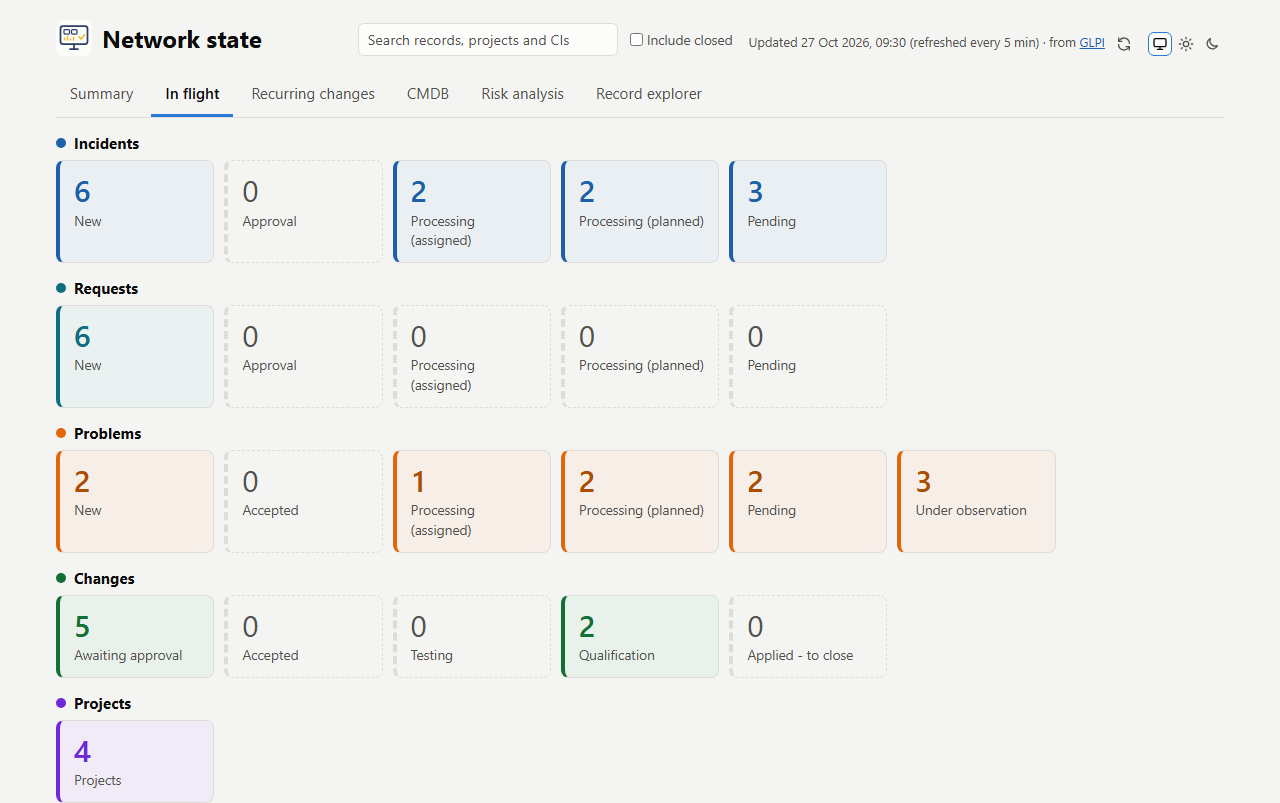
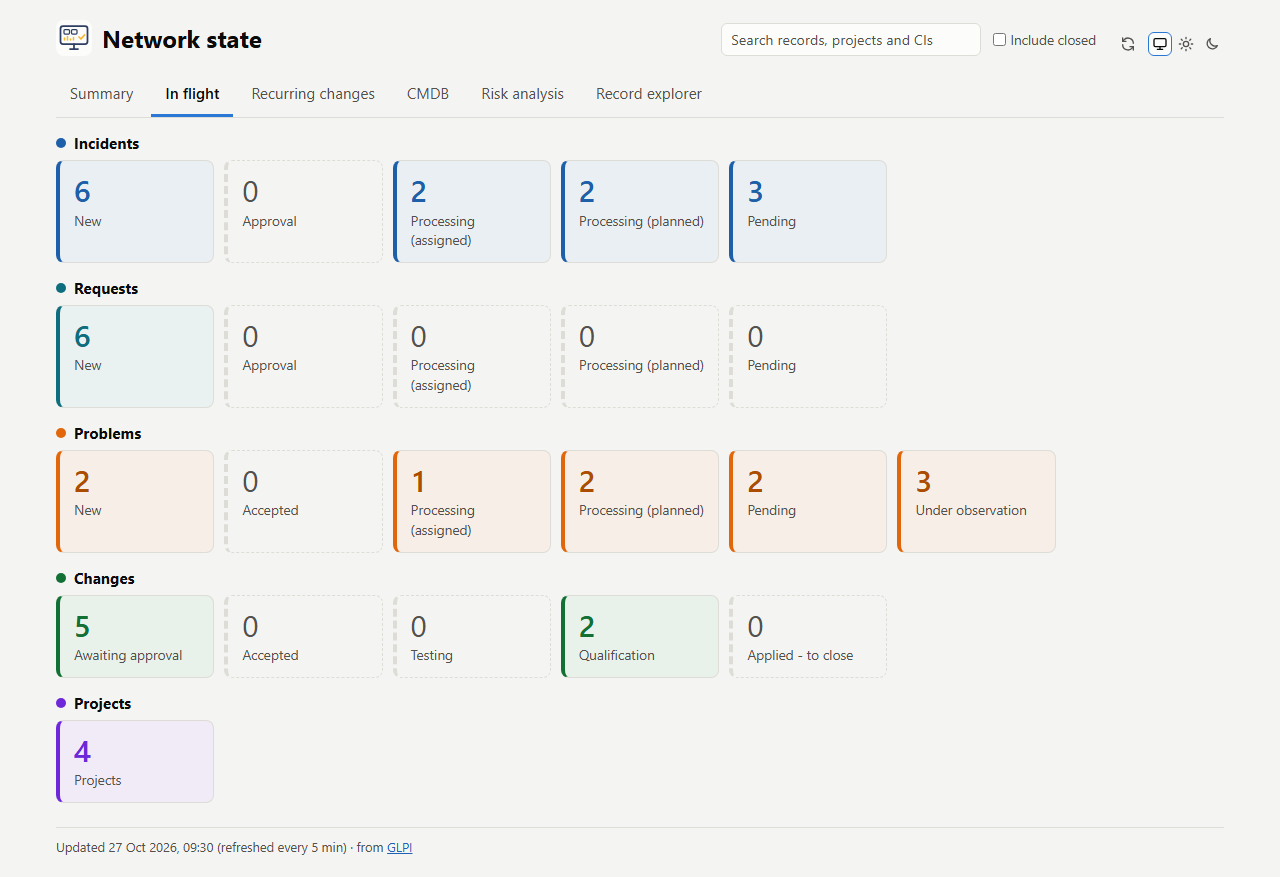
feat(ui): update time moves to a page footer (#29)
The header keeps the title, search, Refresh now and the theme toggle, on one
line from 768px up and in three tidy rows below, with no sideways scroll
down to 320px. "Updated ..., refreshed every N min - from GLPI" moves to a
footer below the page. Retakes the seven tab screenshots, whose header and
footer changed.

diff --git a/app/static/style.css b/app/static/style.css
@@ -127,14 +127,17 @@ a { color: var(--link); }
 a:focus-visible { outline: 2px solid var(--focus); outline-offset: 2px; }
 .visually-hidden { position: absolute; width: 1px; height: 1px; overflow: hidden; clip: rect(0 0 0 0); }
 
-.top, main { max-width: 1200px; margin: 0 auto; padding: 0 16px; }
-/* The title on the left; search, when it was updated and Refresh on the right, on the title's baseline. */
+.top, main, .foot { max-width: 1200px; margin: 0 auto; padding: 0 16px; }
+/* The title on the left; search, Refresh and the theme picker on the right, on the title's baseline. */
 .top { padding-top: 20px; display: flex; flex-wrap: wrap; align-items: flex-end; gap: 8px 16px; }
 /* Search takes the line's spare room, right-aligned, and gives it up before the update time wraps below the title:
    the box is laid out at 120px and grows to 260px, since an input's natural width would otherwise be its minimum. */
 .top .search { flex: 1 0 auto; justify-content: flex-end; flex-wrap: nowrap; }
 .top .search input[type="search"] { width: 120px; flex: 1 1 120px; max-width: 260px; }
-.top .meta { margin: 0; font-size: 0.8rem; }
+.top .actions { display: flex; align-items: center; }
+/* When it was updated, and from which GLPI, below everything else. */
+.foot { padding-top: 24px; padding-bottom: 20px; }
+.foot .meta { margin: 0; padding-top: 10px; border-top: 1px solid var(--border); font-size: 0.8rem; }
 h1 { font-size: 1.5rem; margin: 0; display: flex; align-items: center; gap: 10px; }
 .logo { width: 36px; height: 36px; padding: 2px; background: #fcfcfb; border-radius: 8px; }
 h2 { font-size: 1.15rem; margin: 28px 0 6px; }

diff --git a/app/static/index.html b/app/static/index.html
@@ -18,7 +18,7 @@
              autocomplete="off" spellcheck="false">
       <label class="check"><input id="search-closed" type="checkbox"> Include closed</label>
     </form>
-    <p class="meta"><span id="updated">Loading…</span> · from <a id="glpi-link" href="#" target="_blank" rel="noopener">GLPI</a>
+    <div class="actions">
       <button id="refresh" class="icon-btn refresh" type="button" aria-label="Refresh now" title="Refresh now">
         <svg class="refresh-icon" viewBox="0 0 24 24" aria-hidden="true" focusable="false">
           <path d="M20 11a8 8 0 0 0-14.3-4.9L4 8"/><path d="M4 3v5h5"/>
@@ -45,7 +45,8 @@
             <path d="M20 14.5A8 8 0 0 1 9.5 4a8 8 0 1 0 10.5 10.5z"/>
           </svg>
         </button>
-      </span></p>
+      </span>
+    </div>
   </header>
   <div id="error" class="banner" role="alert" hidden></div>
 
@@ -142,6 +143,10 @@
       </details>
     </section>
   </main>
+
+  <footer class="foot">
+    <p class="meta"><span id="updated">Loading…</span> · from <a id="glpi-link" href="#" target="_blank" rel="noopener">GLPI</a></p>
+  </footer>
 
   <dialog id="list" aria-labelledby="list-title">
     <div class="dialog-head">

diff --git a/ui-tests/test_ui_dashboard.py b/ui-tests/test_ui_dashboard.py
@@ -1041,33 +1041,44 @@ def test_heat_gets_deeper_with_priority_and_both_styles_have_six_colours(page: P
 
 # --- header ---------------------------------------------------------------------------------------------------
 
-def test_header_puts_updated_and_refresh_right_on_the_titles_baseline(page: Page, dashboard):
-    page.set_viewport_size({"width": 1100, "height": 800})
+def test_header_puts_search_refresh_and_theme_right_on_the_titles_baseline(page: Page, dashboard):
+    page.set_viewport_size({"width": 1024, "height": 800})
     open_page(page)
+    header = page.get_by_role("banner")
+    expect(header.get_by_role("button", name="Refresh now")).to_be_visible()
+    expect(header.get_by_role("group", name="Theme")).to_be_visible()
+    expect(header.locator("#updated")).to_have_count(0)
     title = page.locator("h1").bounding_box()
-    meta = page.locator(".top .meta").bounding_box()
-    assert meta["x"] > title["x"] + title["width"]                   # to the right of the title
+    search = page.locator(".top .search").bounding_box()
+    actions = page.locator(".top .actions").bounding_box()
+    assert search["x"] > title["x"] + title["width"]                 # one line: title, search, then the buttons
+    assert actions["x"] > search["x"] + search["width"]
     top = page.locator(".top").bounding_box()
-    assert abs((meta["x"] + meta["width"]) - (top["x"] + top["width"] - 16)) < 2   # right-aligned, inside the padding
-    assert abs((meta["y"] + meta["height"]) - (title["y"] + title["height"])) < 2     # bottoms line up
-    assert float(page.locator(".top .meta").evaluate("e => parseFloat(getComputedStyle(e).fontSize)")) < 14
+    assert abs((actions["x"] + actions["width"]) - (top["x"] + top["width"] - 16)) < 2   # right-aligned, inside the padding
+    for box in (search, actions):
+        assert abs((box["y"] + box["height"]) - (title["y"] + title["height"])) < 2   # bottoms line up
 
 
-def test_search_box_gives_way_before_the_update_time_wraps(page: Page, dashboard):
-    """At the narrowest width where the title, a 120px search box and the update time fit, they share one line."""
+def test_update_time_and_glpi_link_are_in_the_footer_below_the_page(page: Page, dashboard):
     open_page(page)
-    width = page.evaluate("""() => {
-      const w = (s) => document.querySelector(s).getBoundingClientRect().width;
-      const gap = (s) => parseFloat(getComputedStyle(document.querySelector(s)).columnGap);
-      const scrollbar = window.innerWidth - document.documentElement.clientWidth;
-      return Math.ceil(32 + scrollbar + w('h1') + w('.top .meta') + 2 * gap('.top')
-        + 120 + gap('.top .search') + w('.top .search .check')) + 2;
-    }""")
+    footer = page.get_by_role("contentinfo")
+    expect(footer).to_contain_text(re.compile(r"Updated .+ \(refreshed every \d+ min\) · from GLPI"))
+    link = footer.get_by_role("link", name="GLPI")
+    expect(link).to_have_attribute("href", PUBLIC_URL + "/")
+    expect(link).to_have_attribute("target", "_blank")
+    assert footer.bounding_box()["y"] >= page.locator("main").bounding_box()["y"] + page.locator("main").bounding_box()["height"]
+    assert float(footer.locator(".meta").evaluate("e => parseFloat(getComputedStyle(e).fontSize)")) < 14
+
+
+@pytest.mark.parametrize("width", [320, 375, 768, 1024])
+def test_no_sideways_scroll(page: Page, dashboard, width):
     page.set_viewport_size({"width": width, "height": 800})
-    title = page.locator("h1").bounding_box()
-    meta = page.locator(".top .meta").bounding_box()
-    assert meta["x"] > title["x"] + title["width"]                   # still to the right of the title
-    assert 120 <= page.locator("#search").bounding_box()["width"] < 140
+    open_page(page)
+    assert page.evaluate("document.documentElement.scrollWidth <= document.documentElement.clientWidth")
+    for name in ("Refresh now", "System theme", "Light theme", "Dark theme"):
+        box = page.get_by_role("button", name=name).bounding_box()
+        assert box["x"] >= 0 and box["x"] + box["width"] <= width, name
+
 
 def test_refresh_is_an_icon_button_with_a_name(page: Page, dashboard):
     open_page(page)

diff --git a/ui-tests/test_ui_search.py b/ui-tests/test_ui_search.py
@@ -40,14 +40,14 @@ def search(page: Page, q):
     expect(page.locator("#list-count")).not_to_have_text("Searching…")
 
 
-def test_the_search_box_sits_in_the_header_beside_the_update_time(page: Page, dashboard):
+def test_the_search_box_sits_in_the_header_beside_refresh(page: Page, dashboard):
     page.set_viewport_size({"width": 1280, "height": 800})
     open_page(page)
     expect(page.locator("header").get_by_label("Search records, projects and CIs")).to_be_visible()
-    search_box, updated = box(page).bounding_box(), page.locator("#updated").bounding_box()
+    search_box, refresh = box(page).bounding_box(), page.locator("#refresh").bounding_box()
     title = page.locator("h1").bounding_box()
-    assert search_box["x"] > title["x"] + title["width"] and search_box["x"] + search_box["width"] < updated["x"]
-    assert abs((search_box["y"] + search_box["height"]) - (updated["y"] + updated["height"])) < 12   # one row
+    assert search_box["x"] > title["x"] + title["width"] and search_box["x"] + search_box["width"] < refresh["x"]
+    assert abs((search_box["y"] + search_box["height"]) - (refresh["y"] + refresh["height"])) < 12   # one row
     tabs = page.get_by_role("tablist").bounding_box()
     assert search_box["y"] + search_box["height"] <= tabs["y"]
 

diff --git a/README.md b/README.md
@@ -106,7 +106,7 @@ when each record was opened and last updated.
 Every table sorts by any column: click a header, and click again to reverse. Tables show 10 rows, with
 **Show more** and **Show all** below, and **Show less** to go back to 10. Escape, ✕ or a click outside a list closes it.
 
-**Search**: the box at the top right, beside the update time, searches the open tickets, problems and changes,
+**Search**: the box at the top right, beside Refresh now, searches the open tickets, problems and changes,
 the projects and the CIs the dashboard read. Tick **Include closed** to search closed records too. It's off by
 default, which also keeps searches quicker. Pause typing for half a second, or press Enter, and the results open over
 the page. They have their own search box (✕ clears it) and Include closed, to refine them, and say which refresh
@@ -135,9 +135,10 @@ for the Record explorer at `/api/explorer`; the page asks for that only while th
 
 - **If GLPI is unreachable**, the last snapshot stays, with a banner.
 - **`/healthz`** fails once the data is three refreshes old.
-- **Refresh now** (the circular-arrows button at the top right, beside the update time; `POST /api/refresh`)
+- **Refresh now** (the circular-arrows button at the top right; `POST /api/refresh`)
   re-reads GLPI at once, at most every 30 s
   (`MANUAL_MIN_SECONDS`). A click during a running refresh waits for it.
+- **When the data was last read**, and how often it's refreshed, is in the page footer, with a link to GLPI.
 
 It uses the **GLPI v1 API only** (`app/glpi.py`), because v2 has no endpoints for the links between records
 and CIs or projects. A refresh makes about 30 calls.
